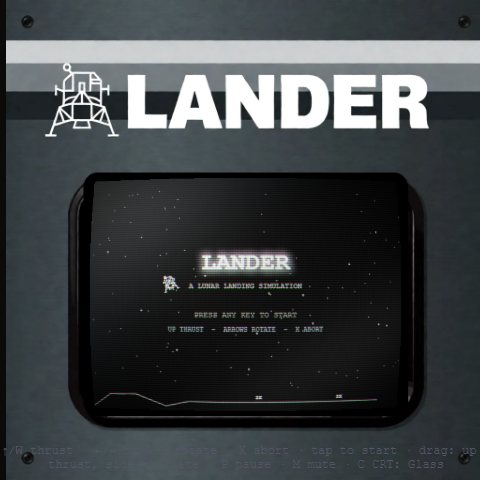
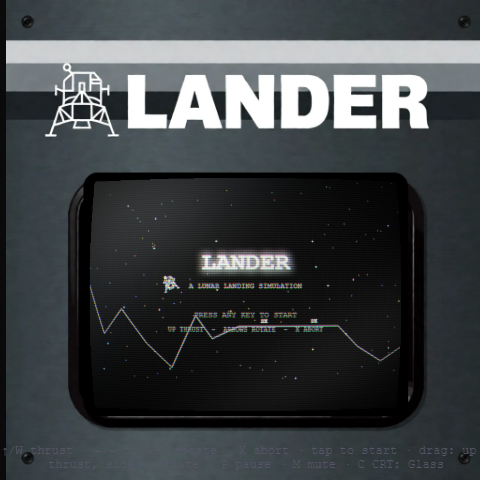
Mountain terrain + arcade camera: local-ground pin (ship falls in from top of screen), 3-4 pads on varied shelves with real peak relief, high spawn

diff --git a/index.html b/index.html
@@ -157,8 +157,8 @@ function genTerrain(m) {
   const steep = 0.65 + 0.10 * diff;
   const padShrink = Math.max(0.55, 1 - 0.07 * (diff - 1));
 
-  // Plan 4-5 pad slots across the world (not at the very edges)
-  const nPads = 4 + (Math.random() < 0.5 ? 1 : 0);
+  // Plan 3-4 pad slots across the world (not at the very edges)
+  const nPads = 3 + (Math.random() < 0.5 ? 1 : 0);  // few pads, mountains dominate
   const slots = [];
   for (let i = 0; i < nPads; i++) {
     const cx = (i + 1) / (nPads + 1) * WORLD_W;
@@ -169,13 +169,13 @@ function genTerrain(m) {
   const widths = slots.map(() => rand(1, 1)).sort((a, b) => b - a);
   const mults = [2, 3, 4, 5];
   slots.forEach((s, i) => {
-    s.w = Math.max(56, (60 + widths[i] * 90) * padShrink);
+    s.w = Math.max(44, (48 + widths[i] * 42) * padShrink);
     s.mult = mults[i % mults.length];
   });
 
   const pts = [];
   let x = 0;
-  let y = rand(260, 330);
+  let y = rand(160, 260);
   pts.push({ x, y });
   let si = 0;
   while (x < WORLD_W) {
@@ -185,16 +185,19 @@ function genTerrain(m) {
     if (slot && !slot.used) {
       slot.used = true;
       si++;
-      y = clamp(y, 200, 385); // pads live on reachable shelves
+      y = clamp(y, 170, 375); // pads live on reachable shelves
       const x0 = x;
       x = Math.min(WORLD_W, x0 + slot.w);
       pts.push({ x, y, pad: slot.mult });
     } else {
       const dx = rand(26, 58);
-      let dy = rand(-1, 1) * rand(18, 64) * steep;
+      // Real peaks, not a flat line: modest steps plus occasional big pushes
+      let mag = rand(24, 70);
+      if (Math.random() < 0.35) mag += rand(40, 90);
+      let dy = (Math.random() < 0.5 ? -1 : 1) * mag * steep;
       // occasional flat-ish stretch so the range has floors
       if (Math.random() < 0.18) dy *= 0.3;
-      y = clamp(y + dy, 150, 400);
+      y = clamp(y + dy, 120, 390);
       x = Math.min(WORLD_W, x + dx);
       pts.push({ x, y });
     }
@@ -252,8 +255,9 @@ function spawnLander() {
   const sx = target ? clamp((target.x0 + target.x1) / 2 + rand(-180, 180), 90, WORLD_W - 90)
                     : rand(150, WORLD_W - 150);
   lander.x = sx;
-  // Spawn low enough that the moonscape is in view from the first frame
-  lander.y = groundYat(sx) - rand(120, 190);
+  // Spawn high: the camera pins to the moonscape and the ship falls in
+  // from above the top of the screen (like the arcade original)
+  lander.y = groundYat(sx) - rand(320, 460);
   lander.vx = rand(-14, 14);
   lander.vy = rand(4, 18);
   lander.angle = 0;
@@ -668,12 +672,15 @@ function render() {
   ctx.fillStyle = "#000";
   ctx.fillRect(0, 0, W, H);
 
-  // Camera follows the lander; when the surface is near, bias the view so
-  // the moonscape sits in the lower part of the screen (like the arcade)
+  // Camera is pinned to the moonscape while the ship is high; once the
+  // surface is near it hands off to the ship so it stays on screen
   const halfW = W / (2 * camScale), halfH = H / (2 * camScale);
   camX = clamp(lander.x, halfW, WORLD_W - halfW);
-  camY = Math.min(lander.y + 0.05 * H / camScale,
-                  terrain.low - halfH + 28);
+  // MAX: ship high -> camera pins to the local ground (ship falls in from
+  // the top of the screen, moonscape always in view, like the arcade);
+  // ship low -> camera centers on the ship so it stays on screen.
+  camY = Math.max(lander.y + 0.05 * H / camScale,
+                  groundYat(lander.x) - halfH + 28);
 
   drawStars();
   drawTerrain();
@@ -1026,7 +1033,7 @@ window.addEventListener("pointerdown", primeAudio, { passive: true });
 genTerrain(1);
 spawnLander(); // scenery for the attract screen
 lander.x = 150;              // left of the title block (camera clamps at W/2)
-lander.y = terrain.low - 235; // hover visibly above the range, clear of the title
+lander.y = groundYat(150) - 150; // hover above the local range, clear of the title
 
 function frame(now) {
   let dt = Math.min((now - lastTime) / 1000, 0.05);
